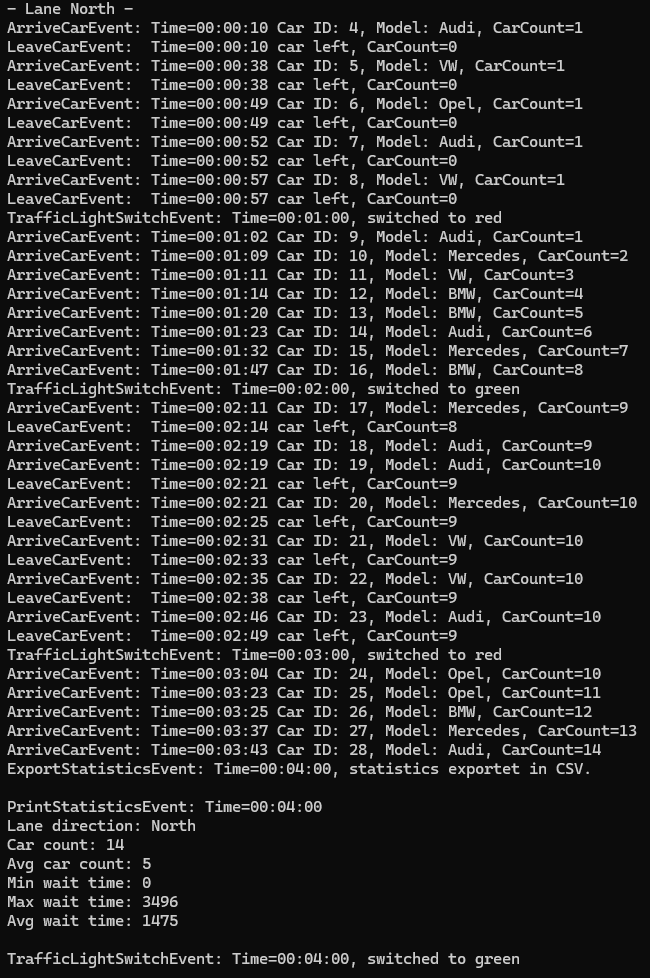
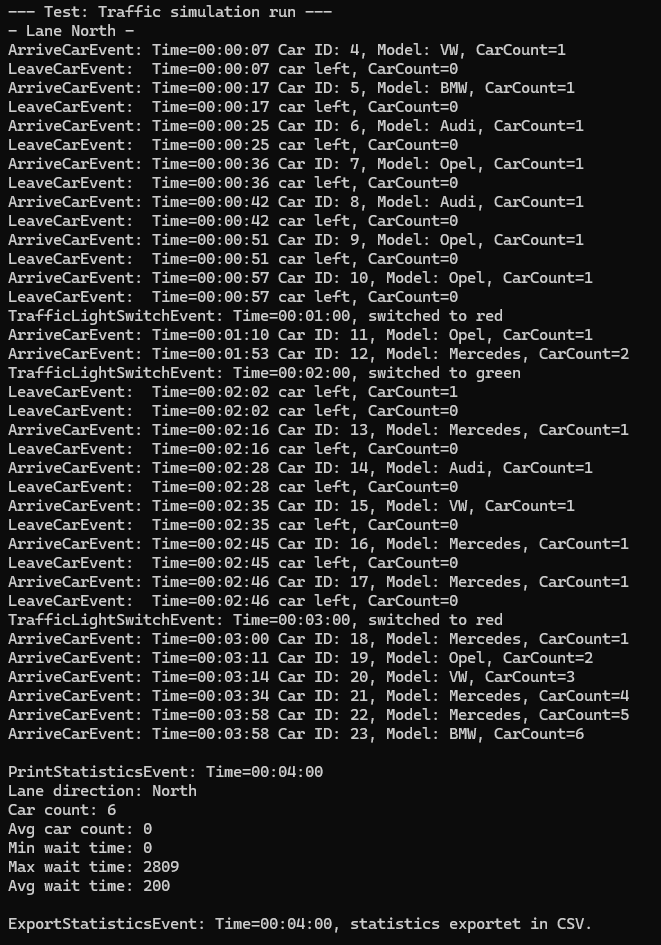
update solution.md

diff --git a/src/des/events.cpp b/src/des/events.cpp
@@ -23,7 +23,7 @@ void ArriveCarEvent::processEvent()  {
             //car can leave immediately
 			lane.scheduleEvent(std::make_unique<LeaveCarEvent>(time, lane, 0));
         }
-        else {
+        else if (lane.getCarCount() >= 1) {
             if (!lane.getCarLeaving()) {
                 // car has to wait
                 lane.setCarLeaving(true);
@@ -43,11 +43,27 @@ std::string ArriveCarEvent::toString() const {
 }
 
 void LeaveCarEvent::processEvent() {
-    if (lane.getIsGreen()) {
+    if (lane.getIsGreen() && lane.getCarCount() >= 1) {
 	    lane.decrementCarCount();
-		lane.addWaitTime(leaveDuration);
+        lane.addWaitTime(leaveDuration);
     }
     lane.setCarLeaving(false);    
+
+    if (lane.getIsGreen()) {
+        if (lane.getCarCount() == 1) {
+            //car can leave immediately
+            lane.scheduleEvent(std::make_unique<LeaveCarEvent>(time, lane, 0));
+        }
+        else if (lane.getCarCount() >= 1) {
+            if (!lane.getCarLeaving()) {
+                // car has to wait
+                lane.setCarLeaving(true);
+                unsigned int leaveDuration = get_random_integer_normal(3000, 500);
+                lane.scheduleEvent(std::make_unique<LeaveCarEvent>(time + leaveDuration, lane, leaveDuration));
+            }
+        }
+    }
+
 	std::cout << this->toString() << "\n";
 }
 
@@ -65,6 +81,22 @@ std::string LeaveCarEvent::toString() const {
 void TrafficLightSwitchEvent::processEvent() {
     lane.toggleTrafficLight();
     lane.addCarCountHistory();
+
+    if (lane.getIsGreen()) {
+        if (lane.getCarCount() == 1) {
+            //car can leave immediately
+            lane.scheduleEvent(std::make_unique<LeaveCarEvent>(time, lane, 0));
+        }
+        else if (lane.getCarCount() >= 1) {
+            if (!lane.getCarLeaving()) {
+                // car has to wait
+                lane.setCarLeaving(true);
+                unsigned int leaveDuration = get_random_integer_normal(3000, 500);
+                lane.scheduleEvent(std::make_unique<LeaveCarEvent>(time + leaveDuration, lane, leaveDuration));
+            }
+        }
+    }
+
     std::cout << this->toString() << "\n"; // print after toggling, else false information!
 }
 
@@ -96,6 +128,7 @@ void ExportStatisticsEvent::processEvent() {
             << lane.getWaitTimeMin() << ","
             << lane.getWaitTimeMax() << ","
             << lane.getWaitTimeAvg() << ","
+            << lane.getCarCount() << ","
             << lane.getAvgCarCount() << "\n";
 
         fileCSV.close();

diff --git a/src/des/lane.cpp b/src/des/lane.cpp
@@ -86,3 +86,11 @@ void Lane::printStatistics() {
 	std::cout << "Max wait time: " << waitTimeMax << std::endl;
 	std::cout << "Avg wait time: " << waitTimeAvg << std::endl << std::endl;
 }
+
+void Lane::printWaitTimes() {
+	std::cout << "Lane direction: " << direction << std::endl;
+	std::cout << "Wait times: " << std::endl;
+	for (auto waitTime : waitTimes) {
+		std::cout << waitTime << std::endl;
+	}
+}

diff --git a/src/des/main.cpp b/src/des/main.cpp
@@ -44,5 +44,13 @@ int main() {
     trafficSimulation.run();
 
 
+    /*
+    std::cout << "print integer_normal";
+    for (int i = 0; i < 100; i++) {
+		std::cout << get_random_integer_normal(3000, 500) << " ";
+	}
+    */
+
+
     return 0;
 }

diff --git a/src/des/trafficSimulation.cpp b/src/des/trafficSimulation.cpp
@@ -29,6 +29,8 @@ void TrafficSimulation::run() {
 		std::cout << "- Lane " << lanes[i]->getDirection() << " -\n";
 		lanes[i]->run();
 	}
+
+	//lanes[0]->printWaitTimes();
 }
 
 

diff --git a/src/des/lane.h b/src/des/lane.h
@@ -49,4 +49,5 @@ public:
 	int getWaitTimeAvg() const { return waitTimeAvg; }
 	void updateStatistics();
 	void printStatistics();
+	void printWaitTimes();
 };

diff --git a/SOLUTION.md b/SOLUTION.md
@@ -39,7 +39,9 @@ Die Simulationsbibliothek basiert auf folgenden Hauptkomponenten:
 
 ### **Testfälle**
 
-In den Bildern unten sind die Testfälle für die Simulation eines Eisladens dargestellt. Die Testfälle umfassen die Ankunft von Kunden, die Bestellung von Eis und das Verlassen des Ladens. Die Testfälle demonstrieren die korrekte Abfolge der Ereignisse und die korrekte Verarbeitung der Ereignisse durch die Simulation.
+In den Bildern unten sind die Testfälle für die Simulation eines Eisladens dargestellt. 
+
+Die Testfälle umfassen die Ankunft von Kunden, die Bestellung von Eis und das Verlassen des Ladens. Die Testfälle demonstrieren die korrekte Abfolge der Ereignisse und die korrekte Verarbeitung der Ereignisse durch die Simulation.
 
 ![](doc/test1.png)
 ![](doc/test2.png)
@@ -88,7 +90,7 @@ Im ersten Bild sieht man einen Test für die Car Klasse. Es wird ein Auto erstel
 
 ![](doc/test3.png)
 
-Im zweiten Bild sieht einen Test der Print / Ausgabe Funktion für eine Lane.
+Im zweiten Bild sieht einen Test der Print / Ausgabe Funktion für Lanes.
 
 ![](doc/test4.png)
 
@@ -102,3 +104,8 @@ Man sieht, Arrive und Leave Events, sowie die Ampelphasenwechsel jedes Minute. A
 Hier sieht man den CSV Export der Statistik.
 
 ![](doc/test8.png)
+
+Hier sieht man zwei Auswertungen der Statistik mit unterschiedlichen Parametern.
+
+![](doc/test9.png)
+![](doc/test10.png)
